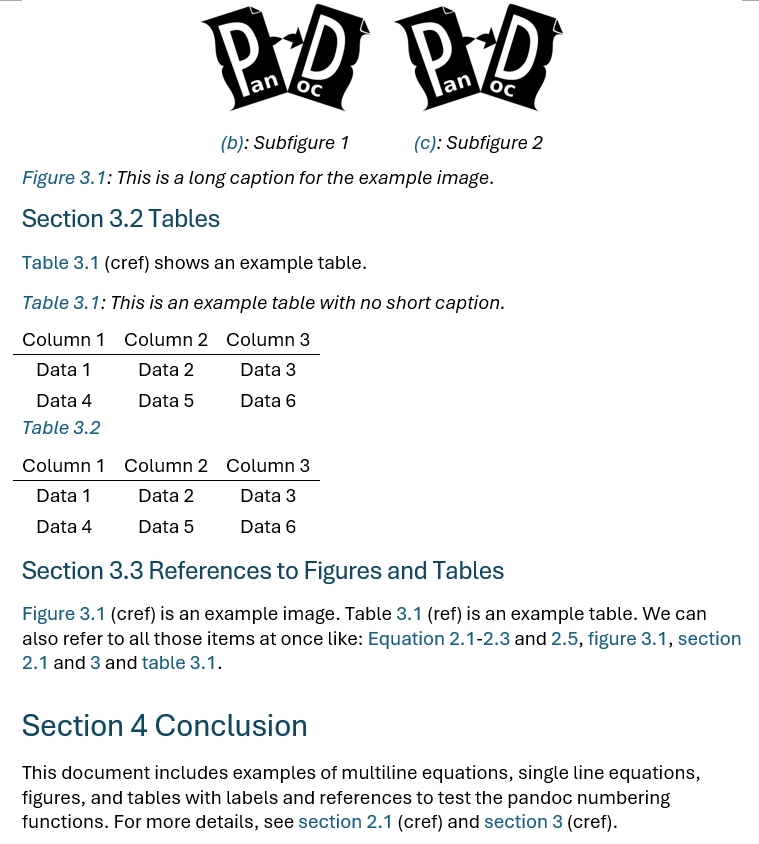
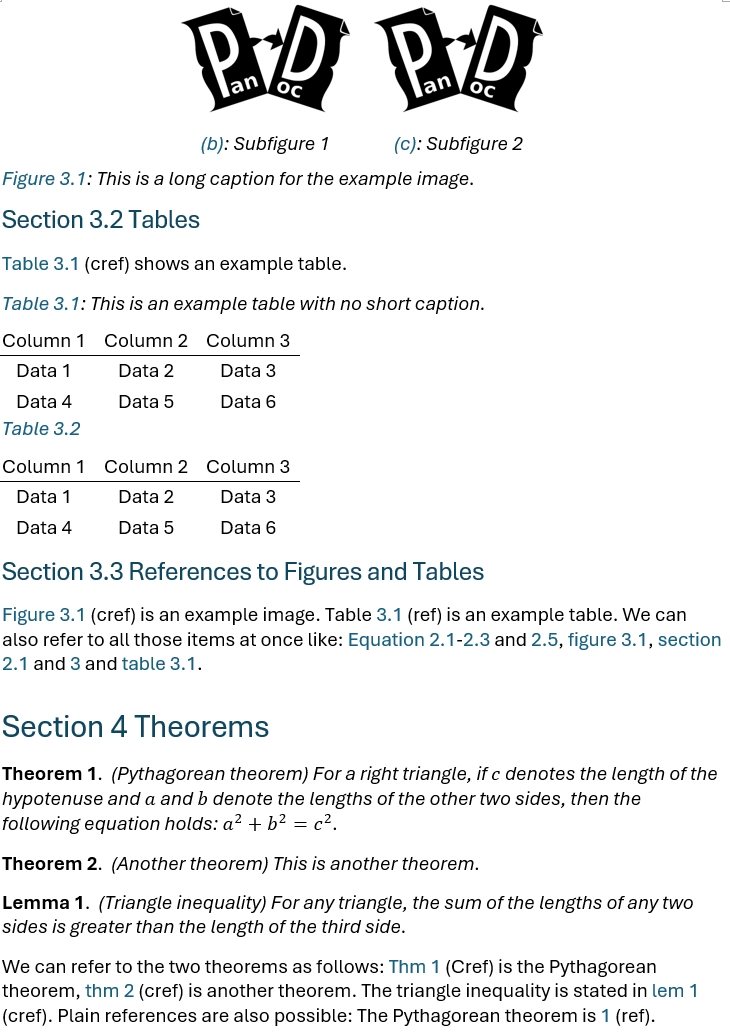
add support for theorem numbering

Changed region(s): [[0.0, 0.0, 0.9945, 1.0]]

diff --git a/src/pandoc_tex_numbering/pandoc_tex_numbering.py b/src/pandoc_tex_numbering/pandoc_tex_numbering.py
@@ -51,6 +51,7 @@ def prepare(doc):
         "num_tab": doc.get_metadata("number-tables", True),
         "num_eq": doc.get_metadata("number-equations", True),
         "num_sec": doc.get_metadata("number-sections", True),
+        "num_theorem": doc.get_metadata("number-theorems", True),
 
         "data_export_path": doc.get_metadata("data-export-path", None),
 
@@ -82,6 +83,12 @@ def prepare(doc):
         "lof_block": None,
         "lot_block": None
     }
+    thm_names = doc.get_metadata("theorem-names", None)
+    doc.pandoc_tex_numbering["theorem_names"] = thm_names.split(",") if thm_names else []
+    if doc.pandoc_tex_numbering["num_theorem"] and len(doc.pandoc_tex_numbering["theorem_names"]) == 0:
+        warnings.warn("The number-theorems is enabled but no theorem names are provided. The numbering of theorems will be disabled.",UserWarning)
+        logger.warning("The number-theorems is enabled but no theorem names are provided. The numbering of theorems will be disabled.")
+        doc.pandoc_tex_numbering["num_theorem"] = False
 
     # Prepare the multiline environment filter pattern for fast checking
     doc.pandoc_tex_numbering["multiline_filter_pattern"] = re.compile(
@@ -95,9 +102,9 @@ def prepare(doc):
         "tab": "table",
         "eq": "equation",
         "sec": "section",
-        "subfig": "subfigure"
+        "subfig": "subfigure",
     }
-    formaters = {}
+    formaters = {"thm":{}}
     pref_space = doc.get_metadata("prefix-space", True)
 
     for item in ["fig","tab","eq"]:
@@ -117,6 +124,25 @@ def prepare(doc):
             prefix=doc.get_metadata(f"{aka[item]}-prefix", aka[item].capitalize()),
             pref_space=pref_space
         )
+    
+    for thm_type in doc.pandoc_tex_numbering["theorem_names"]:
+        fmt_presets = {}
+        item_type = f"thm-{thm_type}"
+        for preset,default in [
+            ["src",None],
+            ["ref",f"{{{item_type}_id}}"],
+            ["cref",f"{{prefix}}{{{item_type}_id}}"],
+            ["Cref",None]
+        ]:
+            fmt = doc.get_metadata(f"theorem-{thm_type}-{preset}-format", default)
+            fmt_presets[preset] = fmt
+        formaters["thm"][thm_type] = Formater(
+            fmt_presets=fmt_presets,
+            item_type=item_type,
+            prefix=doc.get_metadata(f"theorem-{thm_type}-prefix", thm_type.capitalize()),
+            pref_space=pref_space
+        )
+
     
     formaters["subfig"] = Formater(
         fmt_presets={
@@ -385,7 +411,6 @@ def find_labels_figure(elem,doc):
             doc.num_state.next_subfig()
             _find_labels_figure(child,doc,subfigure=True)
 
-
 def _find_labels_figure(elem,doc,subfigure=False):
     label = elem.identifier
     num_obj = doc.num_state.current_fig(subfig=subfigure)
@@ -398,6 +423,15 @@ def _find_labels_figure(elem,doc,subfigure=False):
     add_label_to_caption(num_obj,label,elem)
     if label:
         doc.ref_dict[label] = num_obj
+
+def find_labels_theorem(elem,doc):
+    thm_type = [cls for cls in elem.classes if cls in doc.pandoc_tex_numbering["theorem_names"]][0]
+    doc.num_state.next_thm(thm_type)
+    label = elem.identifier
+    num_obj = doc.num_state.current_thm(thm_type)
+    if not label:
+        elem.identifier = f"thm_{thm_type}:{num_obj.ref}"
+    doc.ref_dict[label] = num_obj
 
 def action_find_labels(elem, doc):
     # Find labels in headers, math blocks, figures and tables
@@ -415,6 +449,10 @@ def action_find_labels(elem, doc):
             doc.pandoc_tex_numbering["lof_block"] = elem
         if "listoftables" in elem.text:
             doc.pandoc_tex_numbering["lot_block"] = elem
+    if isinstance(elem,Div):
+        if any([cls in doc.pandoc_tex_numbering["theorem_names"] for cls in elem.classes]) and doc.pandoc_tex_numbering["num_theorem"]:
+            find_labels_theorem(elem,doc)
+
 def _num2link(num_obj,fmt_preset):
     return Link(Str(num_obj.format(fmt_preset=fmt_preset)),url=f"#{num_obj.label}")
 
@@ -447,7 +485,7 @@ def labels2refs(labels,ref_type,doc):
             num_objs.append(num_obj)
         else:
             logger.warning(f"Reference not found: {label}")
-
+            
     is_suppress = doc.pandoc_tex_numbering["multiple_ref_suppress"]
     chunks = numberings2chunks(num_objs,split_continous=is_suppress)
     

diff --git a/tests/test.tex b/tests/test.tex
@@ -8,6 +8,9 @@
 \usepackage{bicaption}
 \usepackage{subcaption}
 
+\newtheorem{thm}{Theorem}
+\newtheorem{lem}{Lemma}
+
 % Custom names for cref
 \crefname{equation}{equation}{equations}
 \crefname{figure}{figure}{figures}
@@ -19,7 +22,7 @@
 \maketitle
 
 \section{Introduction}
-This document is created to test the pandoc numbering functions for equations, figures, and tables. \Cref{sec:equations} (cref) and \cref{sec:figures_tables} (cref) provide examples of equations, figures, and tables.
+This document is created to test the pandoc numbering functions for equations, figures, tables, and theorems.
 
 \section{Equations}
 
@@ -109,8 +112,25 @@ Here is a single line equation:
 \subsection{References to Figures and Tables}
 \Cref{fig:example} (cref) is an example image. Table \ref{tab:example} (ref) is an example table. We can also refer to all those items at once like: \Cref{fig:example,tab:example,eq:align2,eq:align1,eq:einstein,eq:quadratic,sec:equations,sec:figures_tables}.
 
-\section{Conclusion}
-This document includes examples of multiline equations, single line equations, figures, and tables with labels and references to test the pandoc numbering functions. For more details, see \cref{sec:equations} (cref) and \cref{sec:figures_tables} (cref).
+\section{Theorems}
+
+\begin{thm}
+    \label{thm:pythagorean}
+    (Pythagorean theorem) For a right triangle, if $c$ denotes the length of the hypotenuse and $a$ and $b$ denote the lengths of the other two sides, then the following equation holds: $a^2 + b^2 = c^2$.
+\end{thm}
+
+\begin{thm}
+    \label{thm:another}
+    (Another theorem) This is another theorem.
+\end{thm}
+
+
+\begin{lem}
+    \label{lem:triangle_inequality}
+    (Triangle inequality) For any triangle, the sum of the lengths of any two sides is greater than the length of the third side.
+\end{lem}
+
+We can refer to the two theorems as follows: \Cref{thm:pythagorean} (Cref) is the Pythagorean theorem, \cref{thm:another} (cref) is another theorem. The triangle inequality is stated in \cref{lem:triangle_inequality} (cref). Plain references are also possible: The Pythagorean theorem is \ref{thm:pythagorean} (ref).
 
 \listoffigures
 

diff --git a/src/pandoc_tex_numbering/numbering.py b/src/pandoc_tex_numbering/numbering.py
@@ -1,4 +1,6 @@
 from .lang_num import language_functions
+import logging
+logger = logging.getLogger('pandoc-tex-numbering')
 
 def header_fields(header_nums):
     fields = {
@@ -48,6 +50,9 @@ class Formater:
         self.ids2syms = ids2syms
         self.prefix = prefix
         self.pref_space = pref_space
+    
+    def __repr__(self):
+        return f"Formater({self.item_type})"
     
     def __call__(self, nums, fmt_preset=None,fmt=None):
         if not fmt_preset is None:
@@ -144,6 +149,7 @@ class NumberingState:
         self.tab = 0
         self.fig = 0
         self.subfig = 0
+        self.thms = {}
         self.formaters = formaters
             
     def next_sec(self,level):
@@ -154,6 +160,7 @@ class NumberingState:
             self.tab = 0
             self.fig = 0
             self.subfig = 0
+            # we don't reset theorems
     
     def next_eq(self):
         self.eq += 1
@@ -167,6 +174,12 @@ class NumberingState:
     
     def next_subfig(self):
         self.subfig += 1
+    
+    def next_thm(self,thm_type):
+        if not thm_type in self.thms:
+            self.thms[thm_type] = 1
+        else:
+            self.thms[thm_type] += 1
     
     @property
     def current_sec_nums(self):
@@ -186,6 +199,11 @@ class NumberingState:
             return Numbering("subfig",self.current_sec_nums+[self.fig,self.subfig],self.formaters["subfig"])
         else:
             return Numbering("fig",self.current_sec_nums+[self.fig],self.formaters["fig"])
+    
+    def current_thm(self,thm_type):
+        if not thm_type in self.thms:
+            self.thms[thm_type] = 0
+        return Numbering(f"thm-{thm_type}",self.current_sec_nums+[self.thms[thm_type]],self.formaters["thm"][thm_type])
 
 def numberings2chunks(numberings,split_continous=True):
     numberings = sorted(numberings)

diff --git a/README.md b/README.md
@@ -1,5 +1,5 @@
 # pandoc-tex-numbering
-This is an all-in-one pandoc filter for converting your LaTeX files to any format while keeping **numbering, hyperlinks, caption formats and (clever) cross references in (maybe multi-line) equations, sections, figures, and tables**. The formating is highly customizable, easy-to-use, and even more flexible than the LaTeX default.
+This is an all-in-one pandoc filter for converting your LaTeX files to any format while keeping **numbering, hyperlinks, caption formats and (clever) cross references in (maybe multi-line) equations, sections, figures, tables and theorems**. The formating is highly customizable, easy-to-use, and even more flexible than the LaTeX default.
 
 # Contents
 - [pandoc-tex-numbering](#pandoc-tex-numbering)
@@ -17,6 +17,7 @@ This is an all-in-one pandoc filter for converting your LaTeX files to any forma
       - [Metadata Names](#metadata-names)
       - [Metadata Values](#metadata-values)
   - [Equations](#equations)
+  - [Theorems](#theorems)
   - [List of Figures and Tables](#list-of-figures-and-tables)
   - [Multiple References](#multiple-references)
 - [Details](#details)
@@ -40,6 +41,7 @@ This is an all-in-one pandoc filter for converting your LaTeX files to any forma
 - **Multi-line Equations**: Multi-line equations in LaTeX math block such as `align`, `cases` can be numbered line by line. `\nonumber` commands are supported to turn off the numbering of a specific line.
 - **`cleveref` Package**: `cref` and `Cref` commands are supported. You can customize the prefix of the references.
 - **Subfigures**: `subcaption` package is supported. Subfigures can be numbered with customized symbols and formats.
+- **Theorems**: Theorems are supported with customized formats.
 - **Non-Arabic Numbers**: Chinese numbers "第一章", "第二节" etc. are supported. You can customize the numbering format.
 - **Custom List of Figures and Tables**: **Short captions** as well as custom lof/lot titles are supported for figures and tables.
 - **Custom Formatting of Everything**: You can customize the format of the numbering and references with python f-string format based on various fields we provide.
@@ -77,6 +79,7 @@ You can set the following variables in the metadata of your LaTeX file to custom
 - `number-tables`: Whether to number the tables. Default is `true`.
 - `number-equations`: Whether to number the equations. Default is `true`.
 - `number-sections`: Whether to number the sections. Default is `true`.
+- `number-theorems`: Whether to number the theorems. Default is `true`. **You MUST set the metadata `theorem-names` to the names of the theorems you defined in the LaTeX source code to make it work.**
 - `number-reset-level`: The level of the section that will reset the numbering. Default is 1. For example, if the value is 2, the numbering will be reset at every second-level section and shown as "1.1.1", "3.2.1" etc.
 - `section-max-levels`: The maximum level of the section numbering. Default is 10.
 - `data-export-path`: Where to export the filter data. Default is `None`, which means no data will be exported. If set, the data will be exported to the specified path in the JSON format. This is useful for further usage of the filter data in other scripts or filter-debugging.
@@ -95,13 +98,14 @@ The following metadata are used for the prefix-based system:
 - `table-prefix`: The prefix of the table reference. Default is "Table".
 - `equation-prefix`: The prefix of the equation reference. Default is "Equation".
 - `section-prefix`: The prefix of the section reference. Default is "Section".
+- `theorem-{theorem_name}-prefix`: The prefix of the theorem reference. Default is capitalized `theorem_name`. For example, if you defined `\newtheorem{thm}{Theorem}`, you should set the metadata `theorem-thm-prefix` to "Theorem" (and the default is `Thm`).
 - `prefix-space`: Whether to add a space between the prefix and the number. Default is `true` (for some languages, the space may not be needed).
 
 ### Custom Formatting System (f-string formatting)
 
 #### Metadata Names
-For now, we support 5 types of items and 4 types of formatting:
-- Item types: `fig` (figure), `tab` (table), `eq` (equation), `sec` (section), `subfig` (subfigure).
+For now, we support 5+x types of items and 4 types of formatting:
+- Item types: `fig` (figure), `tab` (table), `eq` (equation), `sec` (section), `subfig` (subfigure), `thm-{theorem_name}` (theorem). For example, if you defined `\newtheorem{lem}{Lemma}`, the item type is `thm-lem`.
 - Formatting types: 
   - `src` (source): The format of the numbering where the item appears. For figures and tables, this is the format used in the captions. For equations, this is the format used after the equations. For sections, this is the format used at the beginning of the section titles.
   - `ref` (reference): The format of numbering used in `\ref` command.
@@ -133,6 +137,7 @@ Here are some examples of the metadata values:
 - set the `fig-src-format` metadata to `"{prefix}{num}"`, the numbering before its caption will be shown as "Figure 2.3.5"
 - set the `fig-cref-format` metadata to `"{Prefix} {fig_id} (in Section {parent_num})"`, when referred to by `\Cref`, it will be shown as `"Figure 5 (in Section 2.3)"`.
 - set the `section-src-format-1` metadata to `"第{h1_zh}章"` and `section-cref-format-1` to `"第{h1_zh}章"` to use Chinese numbers for the first level sections.
+- set the `thm-thm-cref-format` metadata to `"Theorem {thm-thm_id}"` to use the format "Theorem 1" for the theorem environment "thm" while `"Theorem {num}"` for "Theorem 1.1".
 
 For more non-arabic number support, see the [Custom Non-Arabic Numbers Support](#custom-non-arabic-numbers-support) section.
 
@@ -140,6 +145,9 @@ For more examples, see also the [Customized Metadata Examples](#customized-metad
 
 ## Equations
 - `multiline-environments`: Possible multiline environment names separated by commas. Default is "cases,align,aligned,gather,multline,flalign". The equations under these environments will be numbered line by line.
+
+## Theorems
+- `theorem-names`: The names of the theorems separated by commas. Default is "". For example, if you have `\newtheorem{thm}{Theorem}` and `\newtheorem{lem}{Lemma}`, you should set the metadata `theorem-names` to "thm,lem".
 
 ## List of Figures and Tables
 To support short captions and custom titles in the list of figures and tables, you can set the following metadata to turn on the custom list of figures and tables:
@@ -238,7 +246,7 @@ With the testing file `tests/test.tex`:
 ## Default Metadata
 
 ```bash
-pandoc -o output.docx -F pandoc-tex-numbering test.tex 
+pandoc -o output.docx -F pandoc-tex-numbering test.tex -M theorem-names="thm,lem"
 ```
 
 The results are shown as follows:
@@ -264,6 +272,9 @@ In the following example, we custom the following **silly** items *only for the 
   - For subfigures:
     - use greek letters for symbols
     - at the beginning of captions, use styles like `[β(1)]`
+  - For theorems:
+    - Theorem environment "thm" uses "Theorem" as the prefix
+    - Lemma environment "lem" uses "Lemma" as the prefix
 - Turn on custom list of figures and tables and:
   - Use custom titles as "图片目录" and "Table Lists" respectively.
   - Use hyphens as the leader in the lists.
@@ -281,9 +292,12 @@ pandoc -o output.docx -F pandoc-tex-numbering --metadata-file test.yaml -f latex
 
 ```yaml
 # test.yaml
+theorem-names: "thm,lem"
 figure-prefix: Fig
 table-prefix: Tab
 equation-prefix: Eq
+theorem-thm-prefix: Theorem
+theorem-lem-prefix: Lemma
 number-reset-level: 2
 non-arabic-numbers: true
 section-src-format-1: "第{h1_zh}章"
@@ -306,6 +320,7 @@ data-export-path: "data.json"
 multiple-ref-suppress: false
 multiple-ref-separator: "、"
 multiple-ref-last-separator: "\\ &\\ "
+multiple-ref-to: "\\ to\\ "
 ```
 
 The results are shown as follows:
